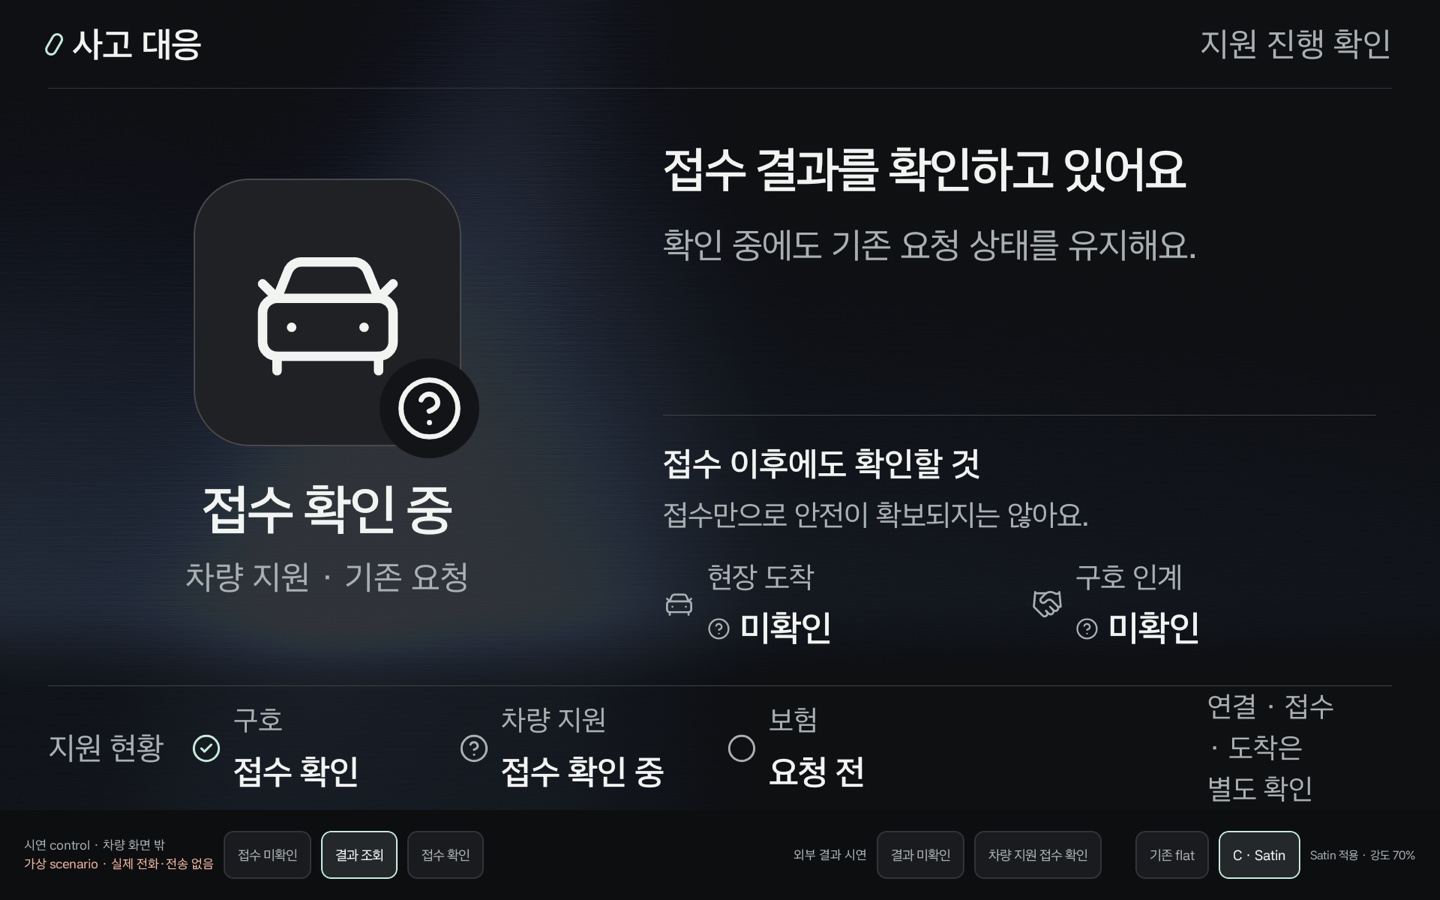
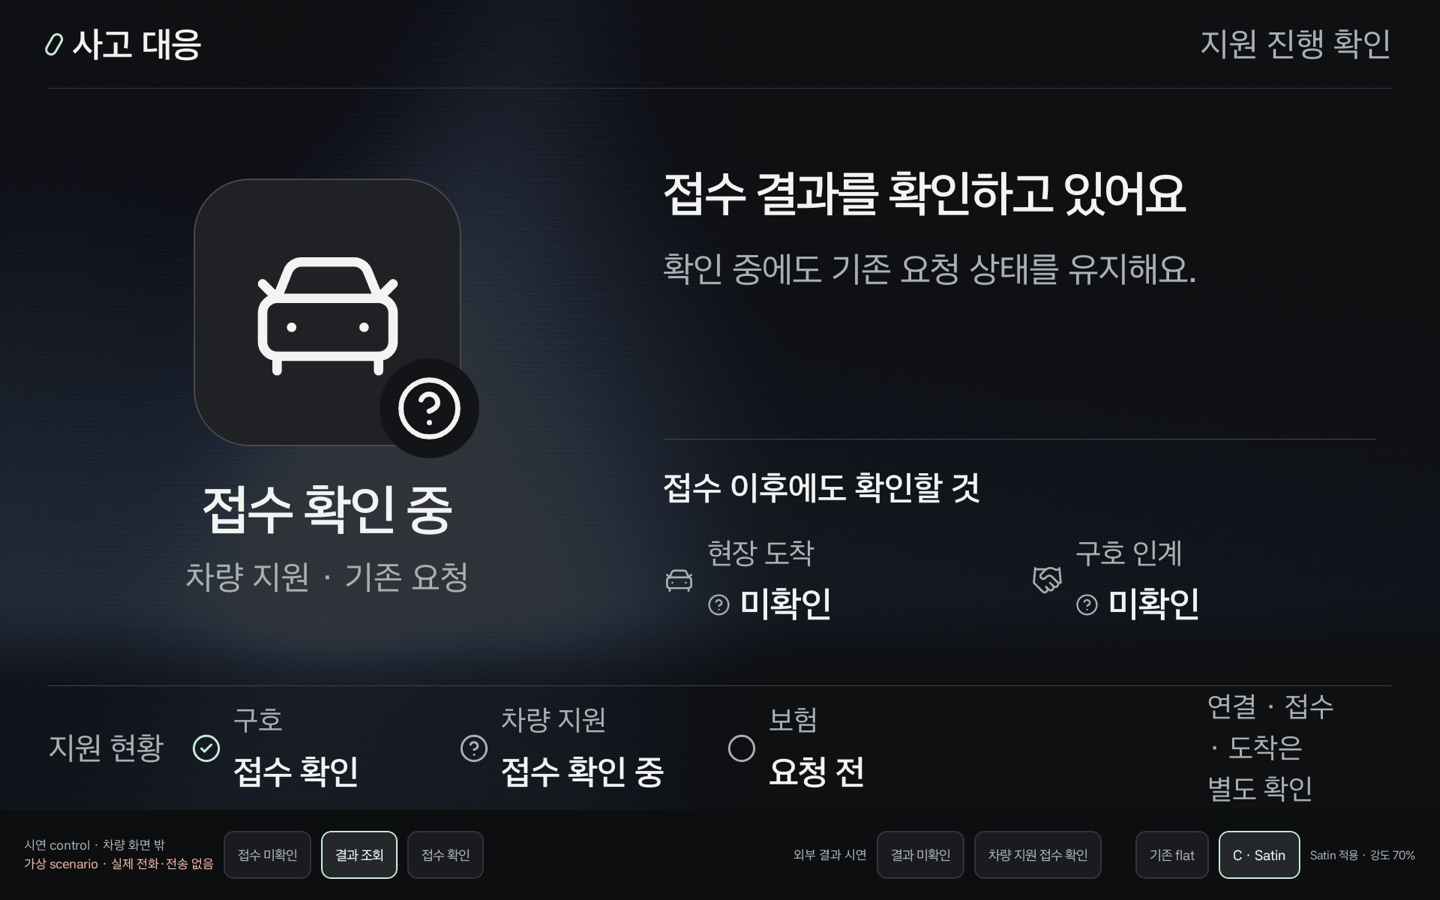
design: drop two SC05 supporting lines from the storyboard
Remove the SC05 initial instruction ("기존 요청의 결과부터 확인해요.")
and the SC05 support note ("접수만으로 안전이 확보되지는 않아요.") from
scenarios.json, as the user asked. Web and Compose now treat both
fields as optional and render no empty text when absent.

Web 24/24, Compose 16/16 (font scale 1.0), manifest 3/3.

Changed region(s): [[0.4375, 0.1556, 0.8438, 0.3111], [0.4375, 0.4978, 0.75, 0.7156], [0.7188, 0.5911, 0.8438, 0.7156]]

diff --git a/prototype/android/app/src/main/java/com/example/accidentpoc/MainActivity.kt b/prototype/android/app/src/main/java/com/example/accidentpoc/MainActivity.kt
@@ -112,7 +112,7 @@ internal fun loadScenario(context: Context, id: String): Scenario {
         initial = scenario.getString("initial"),
         contextLabel = presentation.getString("context_label"),
         supportTitle = presentation.getString("support_title"),
-        supportNote = presentation.getString("support_note"),
+        supportNote = presentation.optString("support_note"),
         facts = scenario.getJSONArray("facts").objects().map { Fact(it.getString("id"), it.getString("label"), it.getString("value"), it.getString("status")) }.filter { it.id in visibleFacts },
         requests = scenario.getJSONArray("requests").objects().map { Request(it.getString("id"), it.getString("label"), it.getString("status")) }.filter { it.id in visibleRequests },
         statuses = statuses,
@@ -121,7 +121,7 @@ internal fun loadScenario(context: Context, id: String): Scenario {
             require(state.getJSONObject("fact_overrides").length() == 0) { "$id/${state.getString("id")}: fact_overrides are not supported yet" }
             val cue = state.getJSONObject("cue")
             Scene(
-                state.getString("id"), state.getString("label"), state.getString("title"), state.getString("instruction"),
+                state.getString("id"), state.getString("label"), state.getString("title"), state.optString("instruction"),
                 cue.getString("symbol"), cue.getString("status"), cue.getString("label"), cue.getString("detail"),
                 state.getJSONObject("request_overrides").stringMap(), state.transitions("actions"), state.transitions("events")
             )
@@ -233,8 +233,11 @@ private fun ActionArea(story: Scenario, scene: Scene, titleFocus: FocusRequester
     // 큰 font scale 에서 잘리지 않도록 scroll 로 남긴다. 1.0 에서는 scroll 없이 들어간다.
     Column(modifier.verticalScroll(rememberScrollState()).padding(top = 8.dp)) {
         Copy(scene.title, 44, weight = FontWeight.SemiBold, lineHeight = 1.25f, tracking = -.035f, modifier = Modifier.semantics { heading(); liveRegion = LiveRegionMode.Polite }.focusRequester(titleFocus).focusable())
-        Spacer(Modifier.height(18.dp))
-        Copy(scene.instruction, 24, Ui.muted, lineHeight = 1.45f)
+        // 문구가 없는 장면은 빈 줄을 남기지 않는다.
+        if (scene.instruction.isNotEmpty()) {
+            Spacer(Modifier.height(18.dp))
+            Copy(scene.instruction, 24, Ui.muted, lineHeight = 1.45f)
+        }
         Box(Modifier.fillMaxWidth().heightIn(min = 116.dp).padding(top = 28.dp)) {
             scene.actions.forEach { action ->
                 Row(Modifier.fillMaxWidth().heightIn(min = 82.dp).clip(RoundedCornerShape(14.dp)).background(Ui.primary).clickable(role = Role.Button) { go(action.to) }.padding(horizontal = 28.dp, vertical = 22.dp), verticalAlignment = Alignment.CenterVertically) {
@@ -249,8 +252,10 @@ private fun ActionArea(story: Scenario, scene: Scene, titleFocus: FocusRequester
         Divider(Ui.border)
         Spacer(Modifier.height(24.dp))
         Copy(story.supportTitle, 21, weight = FontWeight.SemiBold)
-        Spacer(Modifier.height(6.dp))
-        Copy(story.supportNote, 18, Ui.muted)
+        if (story.supportNote.isNotEmpty()) {
+            Spacer(Modifier.height(6.dp))
+            Copy(story.supportNote, 18, Ui.muted)
+        }
         Spacer(Modifier.height(20.dp))
         Row(horizontalArrangement = Arrangement.spacedBy(24.dp)) {
             story.facts.forEach { fact ->

diff --git a/prototype/web/src/emergency/EmergencyStudy.tsx b/prototype/web/src/emergency/EmergencyStudy.tsx
@@ -139,9 +139,9 @@ export function EmergencyStudy() {
               <h2>{scene.cue.label}</h2><p>{scene.cue.detail}</p>
             </section>
             <div className="emergency-action-area">
-              <div className="emergency-action-heading"><h1 ref={heading} tabIndex={-1}>{scene.title}</h1><p>{scene.instruction}</p></div>
+              <div className="emergency-action-heading"><h1 ref={heading} tabIndex={-1}>{scene.title}</h1>{scene.instruction && <p>{scene.instruction}</p>}</div>
               <div className="emergency-action-slot">{scene.actions.map(action => <button className="emergency-primary-action" key={action.id} onClick={() => goToScene(action.to, 'action')}>{action.id === 'request_help' ? <Phone size={30} aria-hidden="true" /> : action.id === 'respond' ? <Check size={30} aria-hidden="true" /> : <Route size={30} aria-hidden="true" />}<span>{action.label}</span><ArrowRight size={28} aria-hidden="true" /></button>)}</div>
-              <section className="emergency-support" aria-label="추가 확인 항목"><div className="emergency-support-heading"><h2>{scenario.presentation.support_title}</h2><span>{scenario.presentation.support_note}</span></div>
+              <section className="emergency-support" aria-label="추가 확인 항목"><div className="emergency-support-heading"><h2>{scenario.presentation.support_title}</h2>{scenario.presentation.support_note && <span>{scenario.presentation.support_note}</span>}</div>
                 <TransitionPanel activeIndex={sceneIndex} transition={{ duration: reducedMotion ? 0 : .16 }} variants={{ enter: { opacity: .8 }, center: { opacity: 1 }, exit: { opacity: 0 } }}>
                   {scenario.states.map(state => <FactsPanel key={state.id} facts={facts.filter(fact => scenario.presentation.visible_facts.includes(fact.id))} />)}
                 </TransitionPanel>

diff --git a/prototype/android/app/src/androidTest/java/com/example/accidentpoc/Sc05Test.kt b/prototype/android/app/src/androidTest/java/com/example/accidentpoc/Sc05Test.kt
@@ -4,6 +4,7 @@ import android.content.Intent
 import androidx.compose.ui.semantics.SemanticsActions
 import androidx.compose.ui.test.SemanticsMatcher
 import androidx.compose.ui.test.assert
+import androidx.compose.ui.test.assertCountEquals
 import androidx.compose.ui.test.assertIsDisplayed
 import androidx.compose.ui.test.assertIsFocused
 import androidx.compose.ui.test.hasText
@@ -37,6 +38,13 @@ class Sc05Test {
         request("insurance", "요청 전")
         fact("arrival", "미확인")
         fact("handoff", "미확인")
+    }
+
+    // 사용자가 뺀 문구는 빈 Text 로도 남지 않아야 한다.
+    @Test fun removedCopyLeavesNoEmptyText() {
+        rule.onNodeWithText("기존 요청의 결과부터 확인해요.").assertDoesNotExist()
+        rule.onNodeWithText("접수만으로 안전이 확보되지는 않아요.").assertDoesNotExist()
+        rule.onAllNodes(hasText(""), useUnmergedTree = true).assertCountEquals(0)
     }
 
     @Test fun simulationNoticeIsAlwaysShown() {

diff --git a/prototype/web/tests/emergency.spec.ts b/prototype/web/tests/emergency.spec.ts
@@ -108,3 +108,12 @@ test('playing_voice_stops_on_pause_and_old_callbacks_cannot_change_new_voice', a
   await expect(page.getByRole('button', { name: '음성 안내 중지' })).toBeVisible()
   await expect(page.getByRole('status')).not.toContainText('음성 원고')
 })
+
+test('sc05_initial_omits_removed_copy_without_empty_text', async ({ page }) => {
+  await page.goto('/?study=emergency&scenario=SC05&scene=initial')
+  const screen = page.getByRole('region', { name: '시각 중심 사고 대응' })
+  await expect(screen.getByRole('heading', { name: '차량 지원 접수를 확인하세요' })).toBeVisible()
+  await expect(screen.getByText('기존 요청의 결과부터 확인해요.')).toHaveCount(0)
+  await expect(screen.getByText('접수만으로 안전이 확보되지는 않아요.')).toHaveCount(0)
+  await expect(screen.locator('.emergency-action-heading p, .emergency-support-heading span')).toHaveCount(0)
+})
